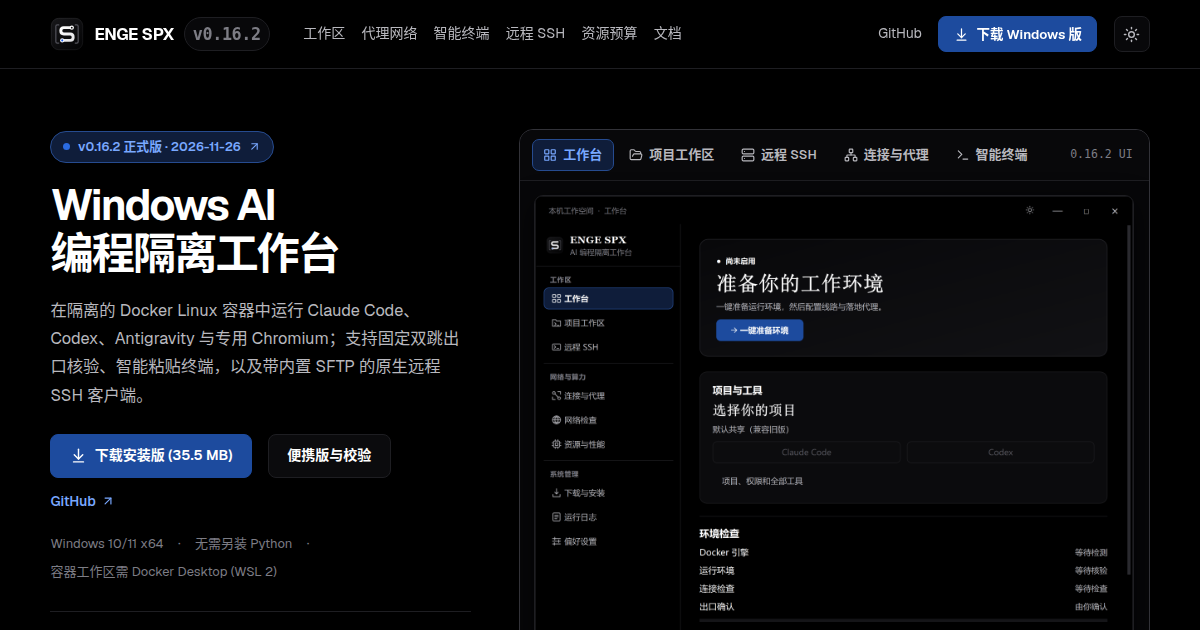
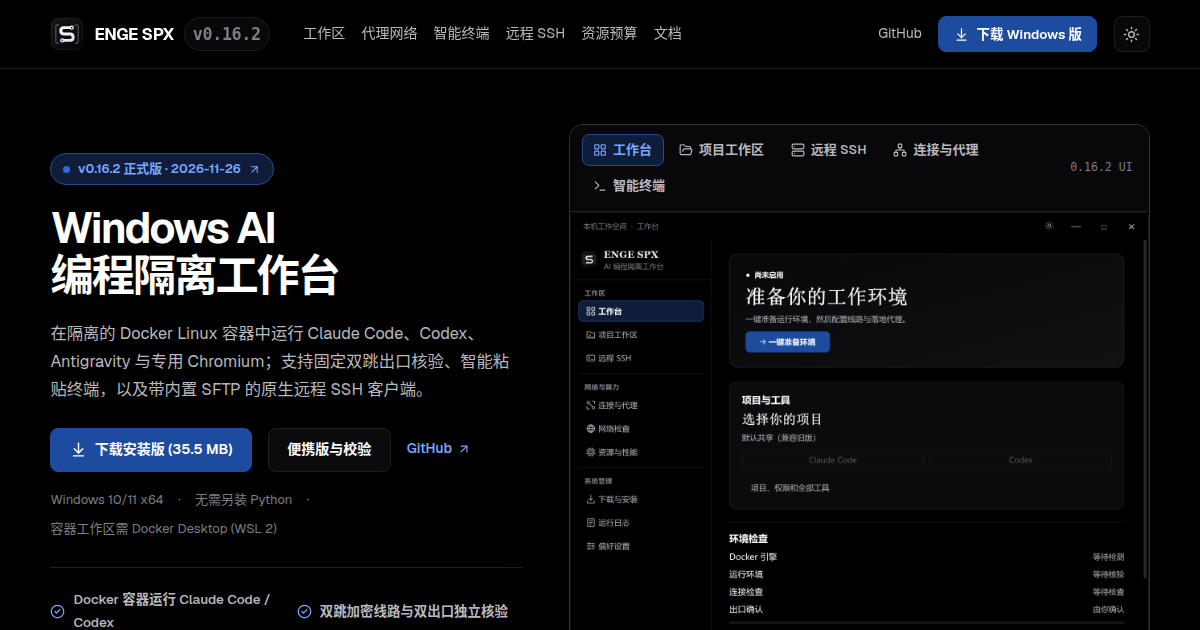
Fill website showcase frames edge-to-edge without inner margins [skip ci]

diff --git a/website/src/app/globals.css b/website/src/app/globals.css
@@ -293,10 +293,10 @@ code {
 /* Hero */
 .hero {
     display: grid;
-    grid-template-columns: minmax(340px, 0.92fr) minmax(0, 1.38fr);
+    grid-template-columns: minmax(340px, 0.96fr) minmax(0, 1.18fr);
     align-items: center;
-    gap: clamp(2rem, 4vw, 3.75rem);
-    padding-block: clamp(2.75rem, 5vw, 4.75rem);
+    gap: clamp(2rem, 3.8vw, 3.5rem);
+    padding-block: clamp(2.5rem, 4.6vw, 4.25rem);
 }
 .release-link {
     display: inline-flex;
@@ -403,40 +403,42 @@ code {
     padding-right: 0.25rem;
 }
 .hero-stage {
-    background: var(--stage);
-    padding: 0.9rem;
-    display: flex;
-    justify-content: center;
+    background: var(--paper);
+    padding: 0;
+    display: block;
+}
+.hero-stage .product-shot {
+    width: 100%;
 }
 .hero-stage .shot-button {
-    border-radius: 9px;
-    box-shadow: 0 8px 26px var(--shadow);
+    width: 100%;
+    border: 0;
+    border-radius: 0 0 calc(var(--radius) - 1px) calc(var(--radius) - 1px);
+    box-shadow: none;
 }
 .hero-stage img {
-    max-height: 540px;
-    width: auto;
-    max-width: 100%;
-    object-fit: contain;
+    width: 100%;
+    height: auto;
+    max-height: none;
+    display: block;
 }
 
 /* Shared Screenshots */
-.product-shot { min-width: 0; }
+.product-shot { min-width: 0; width: 100%; }
 .shot-button {
     position: relative;
     display: block;
-    width: fit-content;
-    max-width: 100%;
-    margin-inline: auto;
+    width: 100%;
     overflow: hidden;
     padding: 0;
     border: 1px solid var(--line);
-    border-radius: 10px;
+    border-radius: 12px;
     background: var(--paper);
-    box-shadow: 0 12px 32px var(--shadow);
+    box-shadow: 0 14px 36px var(--shadow);
     transition: border-color 0.18s ease, box-shadow 0.18s ease;
 }
 .shot-button:hover { border-color: var(--edge); }
-.shot-button img { width: auto; max-width: 100%; height: auto; display: block; }
+.shot-button img { width: 100%; height: auto; display: block; }
 .shot-button:focus-visible { outline-offset: -4px; }
 .shot-zoom {
     position: absolute;
@@ -457,7 +459,7 @@ code {
     transition: opacity 0.16s ease;
 }
 .shot-button:hover .shot-zoom, .shot-button:focus-visible .shot-zoom { opacity: 1; }
-.product-shot figcaption { margin-top: 0.65rem; text-align: center; }
+.product-shot figcaption { margin-top: 0.65rem; text-align: left; }
 
 /* Pillar Overview Matrix */
 .pillars-section {
@@ -535,16 +537,15 @@ code {
 .detail-list dd { margin: 0.3rem 0 0; color: var(--body); font-size: 0.885rem; }
 
 .showcase-image {
-    background: var(--stage);
-    border: 1px solid var(--line);
-    padding: clamp(0.75rem, 1.8vw, 1.35rem);
-    border-radius: var(--radius);
+    background: transparent;
+    border: 0;
+    padding: 0;
 }
 .showcase-image img {
-    max-height: 620px;
-    width: auto;
-    margin-inline: auto;
-    object-fit: contain;
+    width: 100%;
+    height: auto;
+    max-height: none;
+    display: block;
 }
 .showcase-reversed { grid-template-columns: minmax(0, 1.2fr) minmax(0, 0.8fr); }
 .showcase-reversed > .showcase-image { grid-column: 1; grid-row: 1; }
@@ -717,12 +718,12 @@ code {
 
 /* Terminal Section */
 .terminal-stage {
-    padding: clamp(0.8rem, 2.2vw, 1.75rem);
-    background: var(--stage);
-    border: 1px solid var(--line);
-    border-radius: var(--radius);
+    padding: 0;
+    background: transparent;
+    border: 0;
 }
-.terminal-stage .product-shot { max-width: 1020px; margin-inline: auto; }
+.terminal-stage .product-shot { max-width: 100%; margin-inline: auto; }
+.terminal-stage .shot-button { border-radius: var(--radius); border-color: var(--edge); }
 .terminal-features {
     display: grid;
     grid-template-columns: repeat(3, minmax(0, 1fr));
@@ -787,20 +788,24 @@ code {
 .ssh-tab p { font-size: 0.875rem; line-height: 1.58; }
 
 .ssh-stage {
-    background: var(--paper);
-    border: 1px solid var(--edge);
-    border-radius: var(--radius);
-    padding: clamp(0.75rem, 1.8vw, 1.35rem);
+    background: transparent;
+    border: 0;
+    padding: 0;
     display: flex;
     flex-direction: column;
     justify-content: center;
+    box-shadow: none;
+}
+.ssh-stage .shot-button {
+    border-radius: var(--radius);
+    border-color: var(--edge);
     box-shadow: 0 18px 44px var(--shadow);
 }
 .ssh-stage img {
-    max-height: 520px;
-    width: auto;
-    margin-inline: auto;
-    object-fit: contain;
+    width: 100%;
+    height: auto;
+    max-height: none;
+    display: block;
 }
 
 .ssh-specs {
